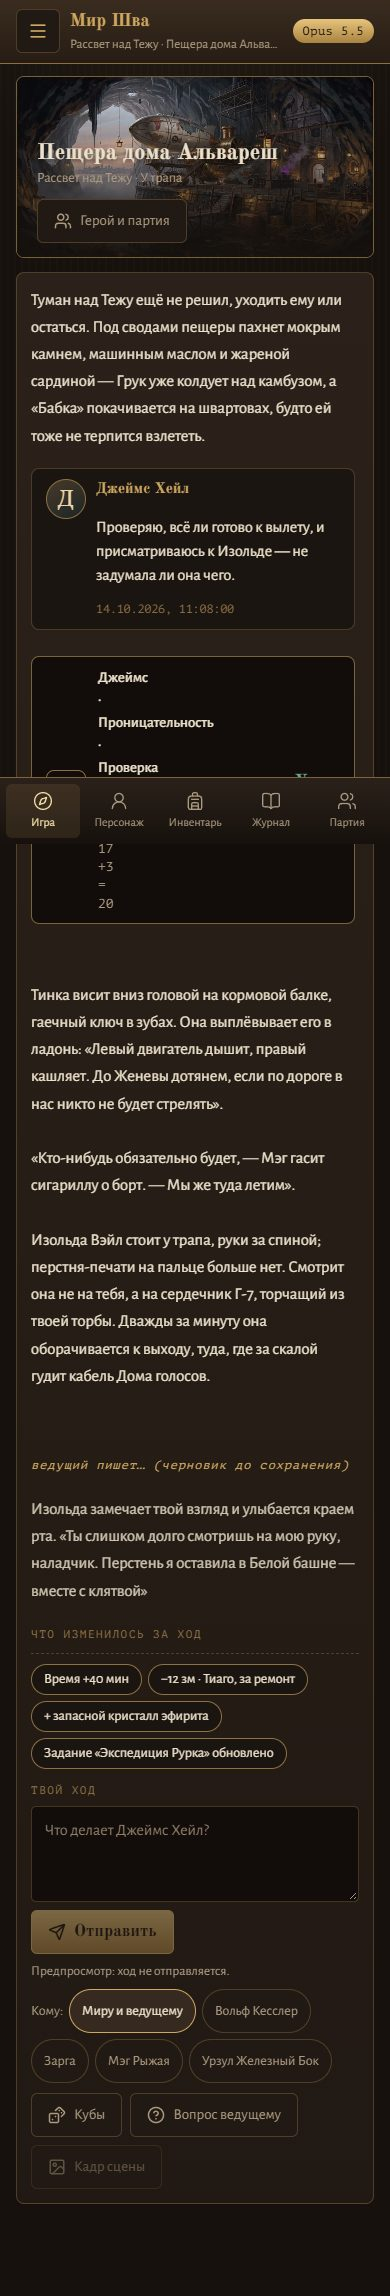
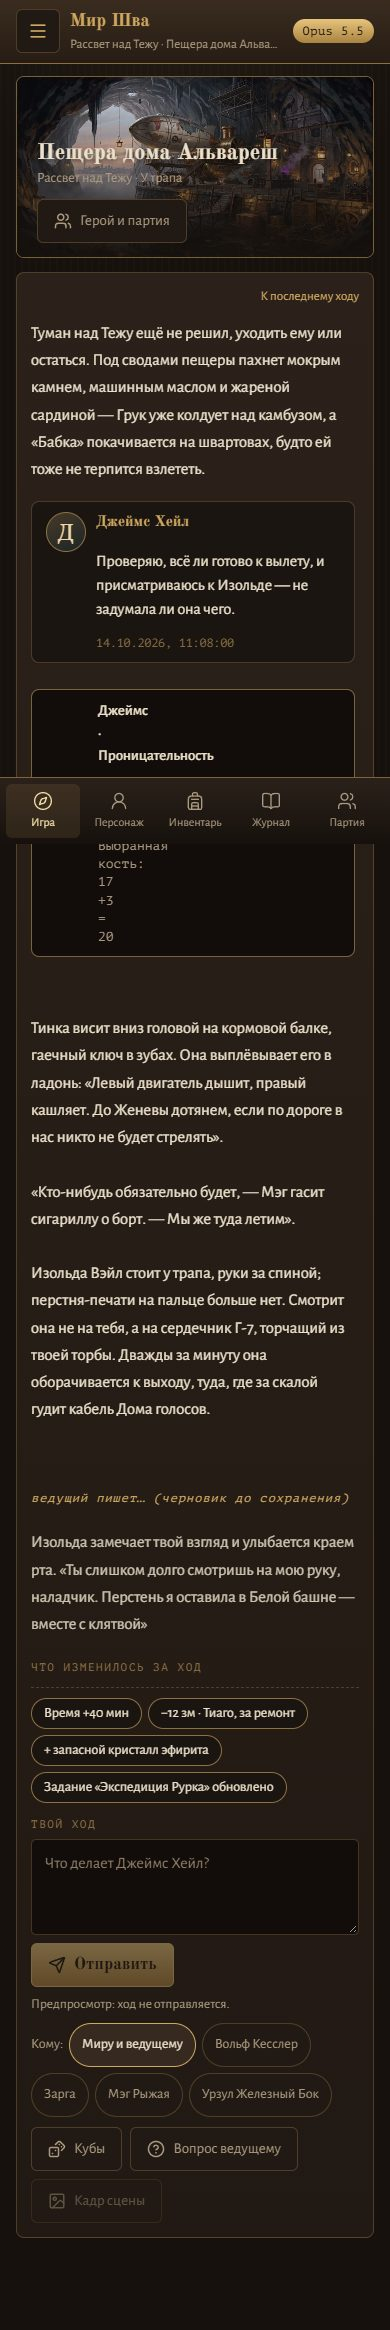
Stage 5: keep earlier game behaviors on the new layout; status and final checks
The new game screen keeps the input mode, the opening article, the opening
recovery link, resources and money as a definition list, the encounter
status in the story column, manual combat, note and evidence links under
More, and a jump to the latest turn. Two older tests now check those
behaviors on the new markup. DEV_STATUS records Stage 5 and its checks.

diff --git a/src/components/registry/game-screen.tsx b/src/components/registry/game-screen.tsx
@@ -103,7 +103,11 @@ export function RegistryGame({ data, preview }: { data: CampaignSnapshot; previe
   const play = preview?.play ?? runtime.play;
   useShellClock(play?.worldMinutes);
   const [addressee, setAddressee] = useState<string | null>(null);
-  const [ooc, setOoc] = useState(false);
+  // The same input-mode state the earlier game screen kept ("game" or out-of-character).
+  const [inputMode, setInputMode] = useState<"game" | "ooc">("game");
+  const ooc = inputMode === "ooc";
+  const setOoc = (next: boolean | ((value: boolean) => boolean)) =>
+    setInputMode((current) => ((typeof next === "function" ? next(current === "ooc") : next) ? "ooc" : "game"));
   const [diceOpen, setDiceOpen] = useState(preview?.diceOpen ?? false);
   const [mediaOpen, setMediaOpen] = useState(false);
   const [asideOpen, setAsideOpen] = useState(preview?.asideOpen ?? false);
@@ -124,6 +128,7 @@ export function RegistryGame({ data, preview }: { data: CampaignSnapshot; previe
   const talkTo = combat ? null : addressee;
   const mode = ooc ? "ooc" : talkTo ? "companion" : "game";
   const busy = !!play?.turns.some(isUnresolved);
+  const latestTurn = play?.turns.filter((turn) => turn.mode === mode).at(-1) ?? null;
   const href = (screen: CampaignScreenId) =>
     chrome?.href?.(screen) ?? `/campaigns/${encodeURIComponent(data.campaign.id)}/${screen}`;
   const insert = (text: string) => {
@@ -135,7 +140,7 @@ export function RegistryGame({ data, preview }: { data: CampaignSnapshot; previe
   const rolls = quickRolls(hero);
   const { resources, money } = hero ? resourcesOf(hero) : { resources: [], money: [] };
   const opening = mode === "game" && view.showOpening && (
-    <div className={g.opening}>{view.story || c("История готова начаться. Здесь появится первая сцена.", "Your story is ready to begin. The opening scene will appear here.")}</div>
+    <article className={g.opening}>{view.story || c("История готова начаться. Здесь появится первая сцена.", "Your story is ready to begin. The opening scene will appear here.")}</article>
   );
   const moment = preview?.playerMoment ? (
     <div className={g.moment} role="status">
@@ -184,7 +189,7 @@ export function RegistryGame({ data, preview }: { data: CampaignSnapshot; previe
       {play?.startupPending && (
         <div role="status" className={r.later}>
           <span>{c("Перед первым ходом закончи вступление приключения и настройку ведущего.", "Finish the adventure opening and DM setup before the first action.")}</span>
-          <Link className={r.btn} href={href("adventures")}>{c("Проверить вступление", "Review the opening")}</Link>
+          <Link className={r.btn} href={href("adventures")}>{c("Проверить вступление", "Review Adventure opening")}</Link>
         </div>
       )}
       {play && !play.startupPending && (
@@ -246,11 +251,19 @@ export function RegistryGame({ data, preview }: { data: CampaignSnapshot; previe
             <span className={r.note}>{c("Кубы бросает сервер, ведущий решает, нужна ли проверка. Кнопка только подсказывает текст хода.", "The server rolls; the DM decides whether a check is needed. These buttons only suggest the text of your turn.")}</span>
           </section>
         )}
-        <article className={g.feed} aria-label={c("Ход", "Turn")}>{feed}</article>
+        <article className={g.feed} aria-label={c("Ход", "Turn")}>
+          {latestTurn && <a className={g.latest} href={`#saved-turn-${latestTurn.id}`}>{c("К последнему ходу", "Latest moment")}</a>}
+          {feed}
+        </article>
         {mediaOpen && !preview && (
           <section className={g.media} aria-label={c("Кадр и видео сцены", "Scene frame and video")}>
             <CurrentSceneMediaFrame />
             <CurrentSceneVideo />
+          </section>
+        )}
+        {!preview && play && !play.startupPending && combat && (
+          <section className={g.media} aria-label={c("Бой", "Combat")}>
+            <GameplayCombat play={play} onSaved={runtime.afterMutation} manualControls={false} />
           </section>
         )}
         {!preview && play && !play.startupPending && (
@@ -258,7 +271,7 @@ export function RegistryGame({ data, preview }: { data: CampaignSnapshot; previe
             <summary>{c("Ещё · бой, отдых, сессия, записи и правки", "More · combat, rest, session, records and corrections")}</summary>
             <div className={r.stack}>
               {play.rulesetId === "world-logic-v1" && <CombatReadiness campaignId={data.campaign.id} runtimeRevision={play.revision} onSaved={runtime.afterMutation} />}
-              {(combat || play.turns.some((turn) => turn.mode === "mechanic") || play.rulesetId !== "world-logic-v1") && (
+              {!combat && (play.turns.some((turn) => turn.mode === "mechanic") || play.rulesetId !== "world-logic-v1") && (
                 <GameplayCombat play={play} onSaved={runtime.afterMutation} manualControls={false} />
               )}
               {play.turns.some((turn) => turn.mode === "mechanic") && (
@@ -271,8 +284,16 @@ export function RegistryGame({ data, preview }: { data: CampaignSnapshot; previe
                 {session && <button type="button" className={r.btnGhost} onClick={() => setSceneEditor("new")}>{c("Добавить запись в стенограмму", "Add a transcript record")}</button>}
                 <Link className={r.btnGhost} href={href("sessions")}>{c("Сессии", "Sessions")}</Link>
                 <Link className={r.btnGhost} href={href("camp")}>{c("Лагерь и отдых", "Camp and rest")}</Link>
+                <Link className={r.btnGhost} href={`${href("journal")}?tab=Notes&compose=note`}>{c("Записать заметку", "Take note")}</Link>
+                <Link className={r.btnGhost} href={`${href("journal")}?tab=Evidence`}>{c("Что я знаю?", "What do I know?")}</Link>
               </div>
               {session && <Transcript data={data} session={session} onEdit={setSceneEditor} />}
+              {(play.rulesetId !== "world-logic-v1" || play.configuration) && (
+                <details>
+                  <summary>{c.t("Manual encounter controls")}</summary>
+                  <GameplayCombat play={play} onSaved={runtime.afterMutation} />
+                </details>
+              )}
             </div>
           </details>
         )}
@@ -292,17 +313,19 @@ export function RegistryGame({ data, preview }: { data: CampaignSnapshot; previe
                 </div>
               </div>
               {hero.hp !== null && <Gauge label={c("Хиты", "Hit points")} value={hero.hp} max={hero.max_hp} />}
-              {resources.length > 0 && (
-                <div>
+              {(resources.length > 0 || money.length > 0) && (
+                <dl className={g.resources}>
                   {resources.slice(0, 6).map((resource) => (
                     <div key={resource.key} className={r.resRow}>
-                      <span>{c.t(resource.label)}</span>
-                      {resource.max ? <Pips left={resource.value} max={resource.max} label={c.t(resource.label)} /> : <span className={r.num}>{resource.value}</span>}
+                      <dt>{c.t(resource.label)}</dt>
+                      <dd>{resource.max ? <Pips left={resource.value} max={resource.max} label={c.t(resource.label)} /> : resource.value}</dd>
                     </div>
                   ))}
-                </div>
+                  {money.map((row) => (
+                    <div key={row.key} className={r.resRow}><dt>{c.t(row.label)}</dt><dd>{row.value}</dd></div>
+                  ))}
+                </dl>
               )}
-              {money.length > 0 && <span className={`${r.num} ${r.small}`} style={{ color: "var(--brass)" }}>{money.map((row) => `${row.value} ${c.t(row.label)}`).join(" · ")}</span>}
               <Link className={r.btnGhost} href={href("character")}>{c("Лист персонажа", "Character sheet")}</Link>
             </div>
           ) : <p className={r.empty}>{c("Героя пока нет.", "No hero yet.")}</p>}

diff --git a/src/components/registry/game.module.css b/src/components/registry/game.module.css
@@ -486,3 +486,19 @@
   font-size: 16px;
   font-weight: 400;
 }
+.resources {
+  margin: 0;
+}
+.resources dt {
+  font-size: 14px;
+}
+.resources dd {
+  margin: 0;
+  font-family: var(--f-mono);
+  color: var(--text);
+}
+.latest {
+  align-self: flex-end;
+  font-size: 13px;
+  color: var(--brass);
+}

diff --git a/DEV_STATUS.md b/DEV_STATUS.md
@@ -1,5 +1,36 @@
 # Development status
 
+**Stage 5 — the new interface — built in parallel with stages 2b–4 (owner-approved exception).**
+Branch `claude/stage-5-ui` from `claude/stage-2-turn-loop`, worktree `../rpg-console-ui`. Not merged, not pushed.
+Task: `docs/stages/STAGE_5.md`; design: `design/`; data still missing: `docs/UI_DATA_NEEDS.md`.
+
+- Registry look (leather, brass, parchment; Old Standard TT / Alegreya Sans / PT Mono) as tokens in
+  `src/app/registry.css`; older screens are re-skinned through the same tokens. New library and campaign shells
+  (left nav with dynamic «Лагерь»/«Имущество» and «Приключения», breadcrumb, model pill, phone tab bar + drawer).
+- New screens on real records, earlier editors kept under «Ещё»: Campaigns (continue card, «Ранее в…» from the
+  last closed session, old-runtime badge with «Перевести на новый ход»), New campaign (4 steps over the existing
+  bootstrap), Game (around the existing composer and stream; dice tray, addressee, sidebar with hero, goal,
+  adventure, party), Character/Inventory (paper doll from the record's slots, parchment item card), Party
+  (talk/council drawer = companion composer, disabled in combat), Journal, Codex (new), Map (route line, goal,
+  «Наметить курс» into the turn box), Holdings (new; camp always, transports/mounts from records), Settings
+  (DM model/effort/runtime live; images; all old settings under «Ещё»). Main menu and adventures restyled.
+- Universal: no ruleset vocabulary or sample content in app code (a test guards it); labels come from the
+  records and the existing presentation helpers. Two synthetic samples: `/preview/stage-5/<screen>` and
+  `?world=noir` (a narrative noir without classes, levels, ability scores, spells or gold).
+- Pictures: fal adapter (FLUX.2 pro $0.03 / flash $0.005 per 1 MP image), a visual autopilot that queues the
+  existing subject-visual jobs after a committed snapshot (toggles, daily cap, auto-accept only without a review
+  warning, never retries), «Перерисовать» everywhere, previous picture kept until a new one is accepted, one
+  picture per item type. Saving fal pictures needs the SQL provider update (UI_DATA_NEEDS #15).
+- Paid fal tests: 22 requests, 17 images kept, $0.56 counted of the $3 cap (`docs/screens/stage-5/fal-cost.json`).
+- Screenshots: `docs/screens/stage-5/` (48: desktop 1440 and phone 390, no horizontal overflow).
+- Checks on the final branch state: typecheck pass; lint pass (0 warnings); build pass; tests 2426 — 2399 pass,
+  0 fail, 27 skipped (HTTP tests without PREVIEW_URL, as before). Two older game-screen tests were moved from the
+  Phase-0 markup to the new layout with the same behaviors. No change in the stage 2b–4 paths.
+- Not done here: the final streaming wiring waits for the accepted 2b branch (2b has not touched the UI so far);
+  saving fal pictures and the data in `docs/UI_DATA_NEEDS.md` belong to stages 3–4.
+
+---
+
 **Current stage:** Stage 2b — speed and fluency of the new turn — done, including the live bench of both
 models; waiting for the owner's review and «дальше». Plan: `docs/REBUILD_PLAN.md`; task:
 `docs/stages/STAGE_2B.md`; results and the breakdown of where the time goes: `docs/SPEED.md`; design of the
